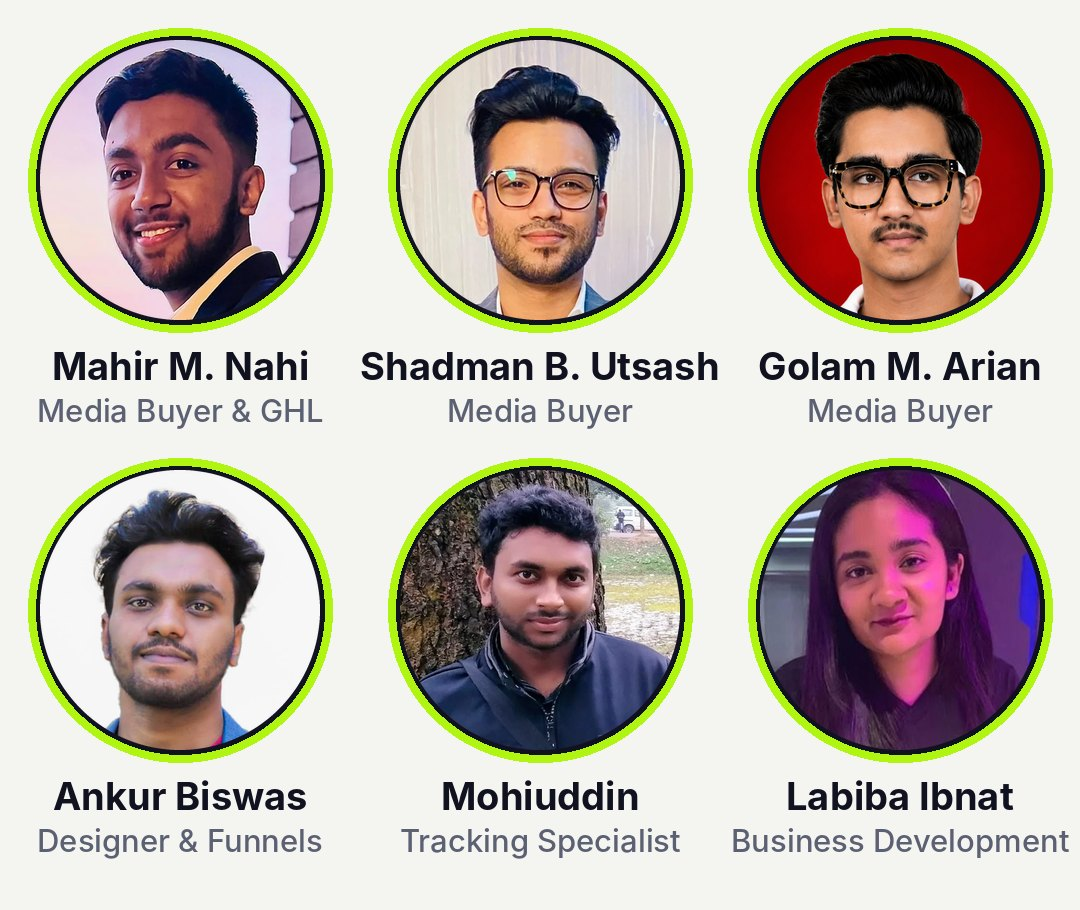
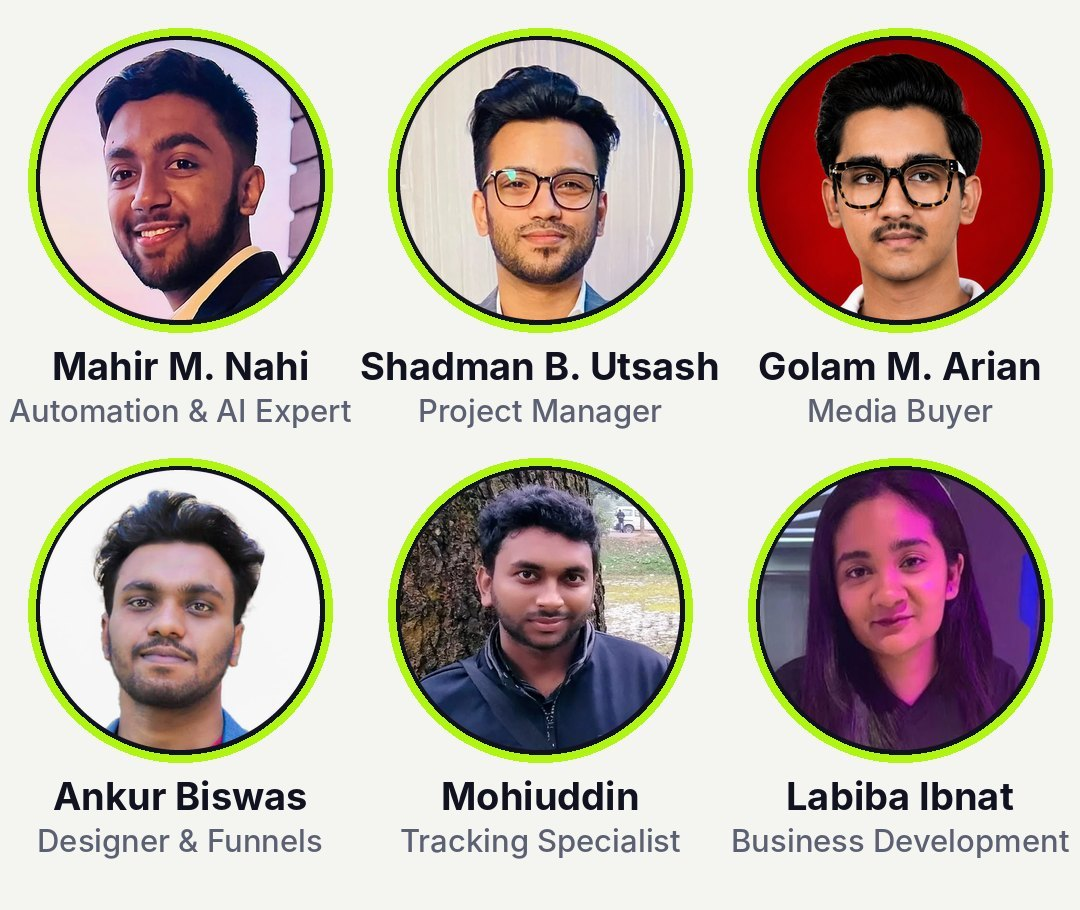
Update team roles for Mahir and Shadman
Claude-Session: https://claude.ai/code/session_012eMzqbtHBRKcqMuWVcJ47W

Changed region(s): [[0.0, 0.4308, 0.3361, 0.4615], [0.3667, 0.4308, 0.6111, 0.4923]]

diff --git a/index.html b/index.html
@@ -376,7 +376,7 @@ footer a{color:var(--muted)}
     <p class="clock-t">We work while you sleep</p>
     <p>Dhaka is 10 to 11 hours ahead of the US East Coast. While you sleep, we check your ads and fix what isn't working. And your AI assistant texts new leads day and night.</p>
   </div>
-  <img class="team" src="img/team.jpg" width="1080" height="910" alt="Infinix Online team in Dhaka: Mahir M. Nahi, Shadman B. Utsash, Golam M. Arian, Ankur Biswas, Mohiuddin and Labiba Ibnat" loading="lazy">
+  <img class="team" src="img/team.jpg?v=2" width="1080" height="910" alt="Infinix Online team in Dhaka: Mahir M. Nahi, Shadman B. Utsash, Golam M. Arian, Ankur Biswas, Mohiuddin and Labiba Ibnat" loading="lazy">
   <p class="cap">The team behind your leads, in Dhaka, Bangladesh.</p>
   <div class="chips"><span>UK registered company</span><span>Top Rated Plus, Upwork</span><span>96% job success</span><span>$2M+ ad spend managed</span><span>GHL Certified</span></div>
   <p class="reg">Infinix Online Ltd, registered in England. Suite A, 82 James Carter Road, Mildenhall, Bury St. Edmunds, IP28 7DE.</p>
